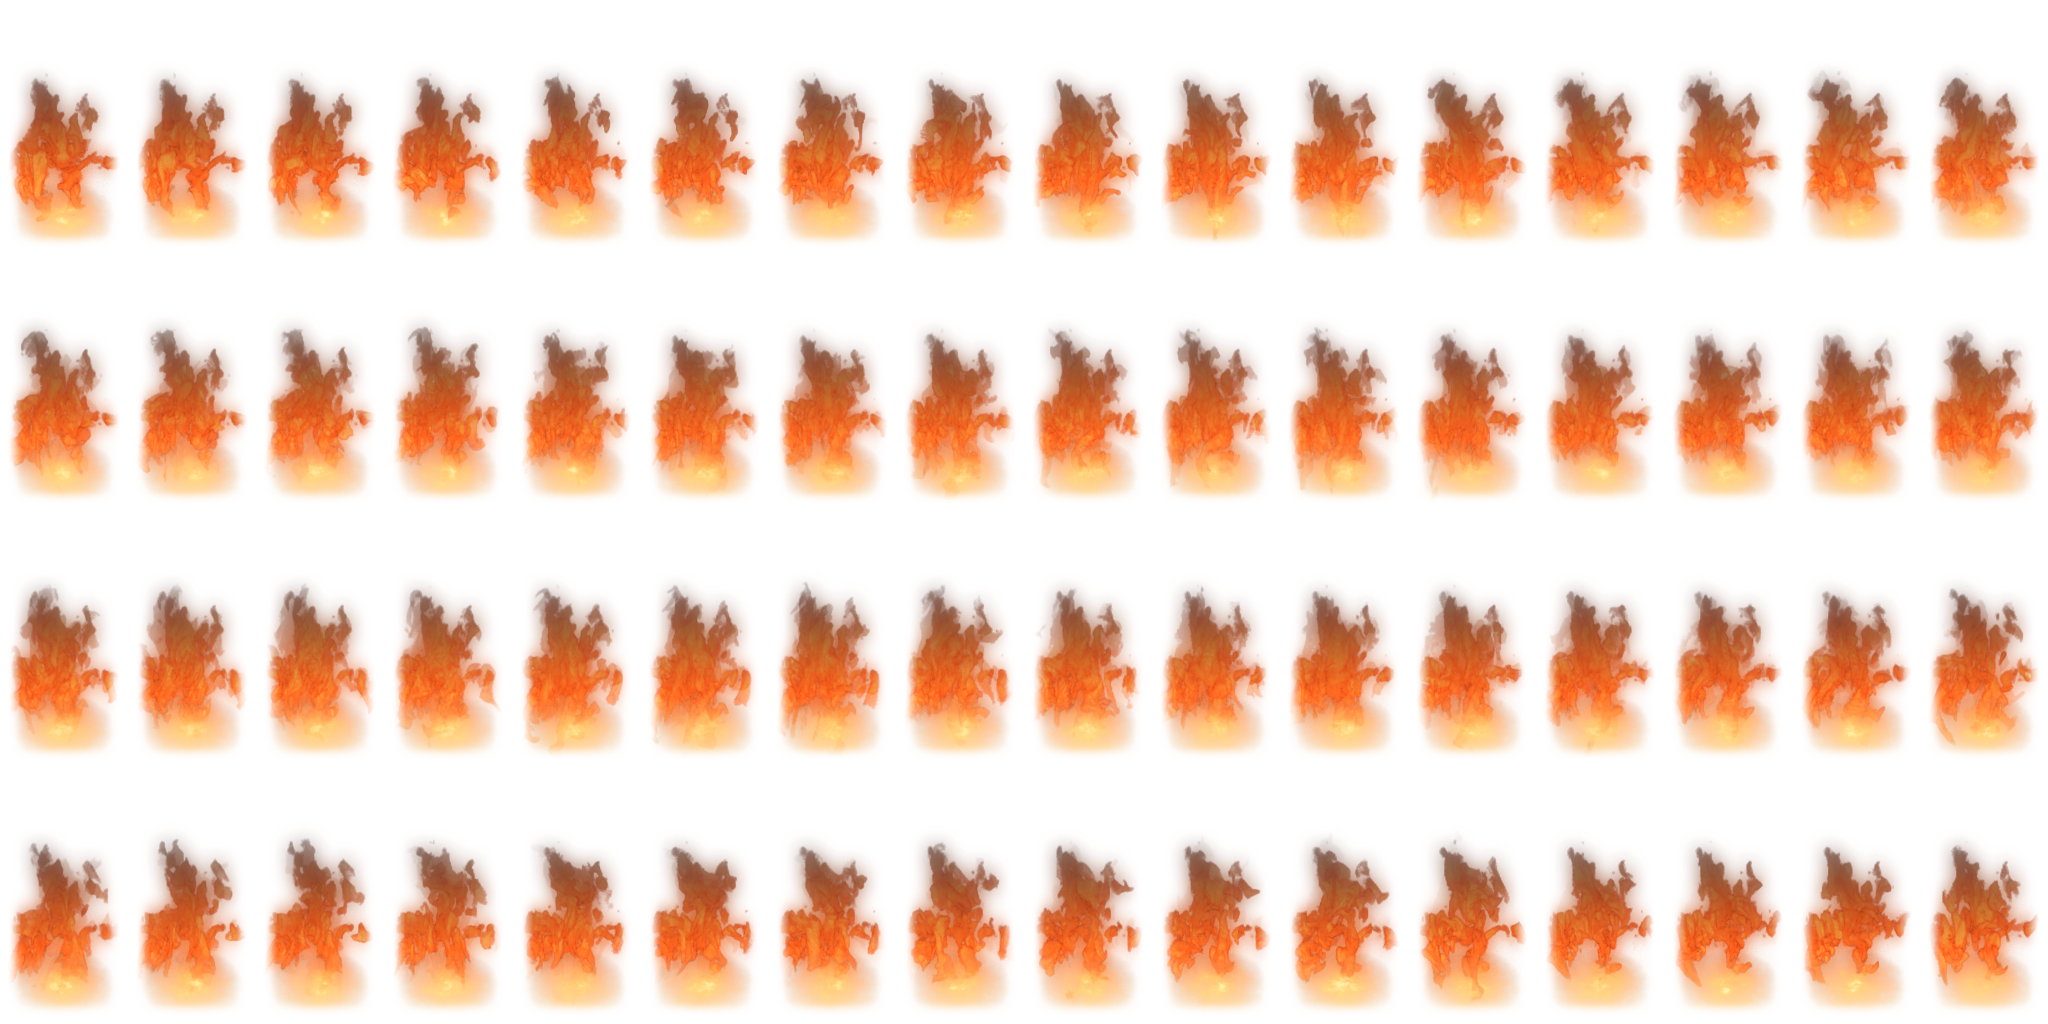
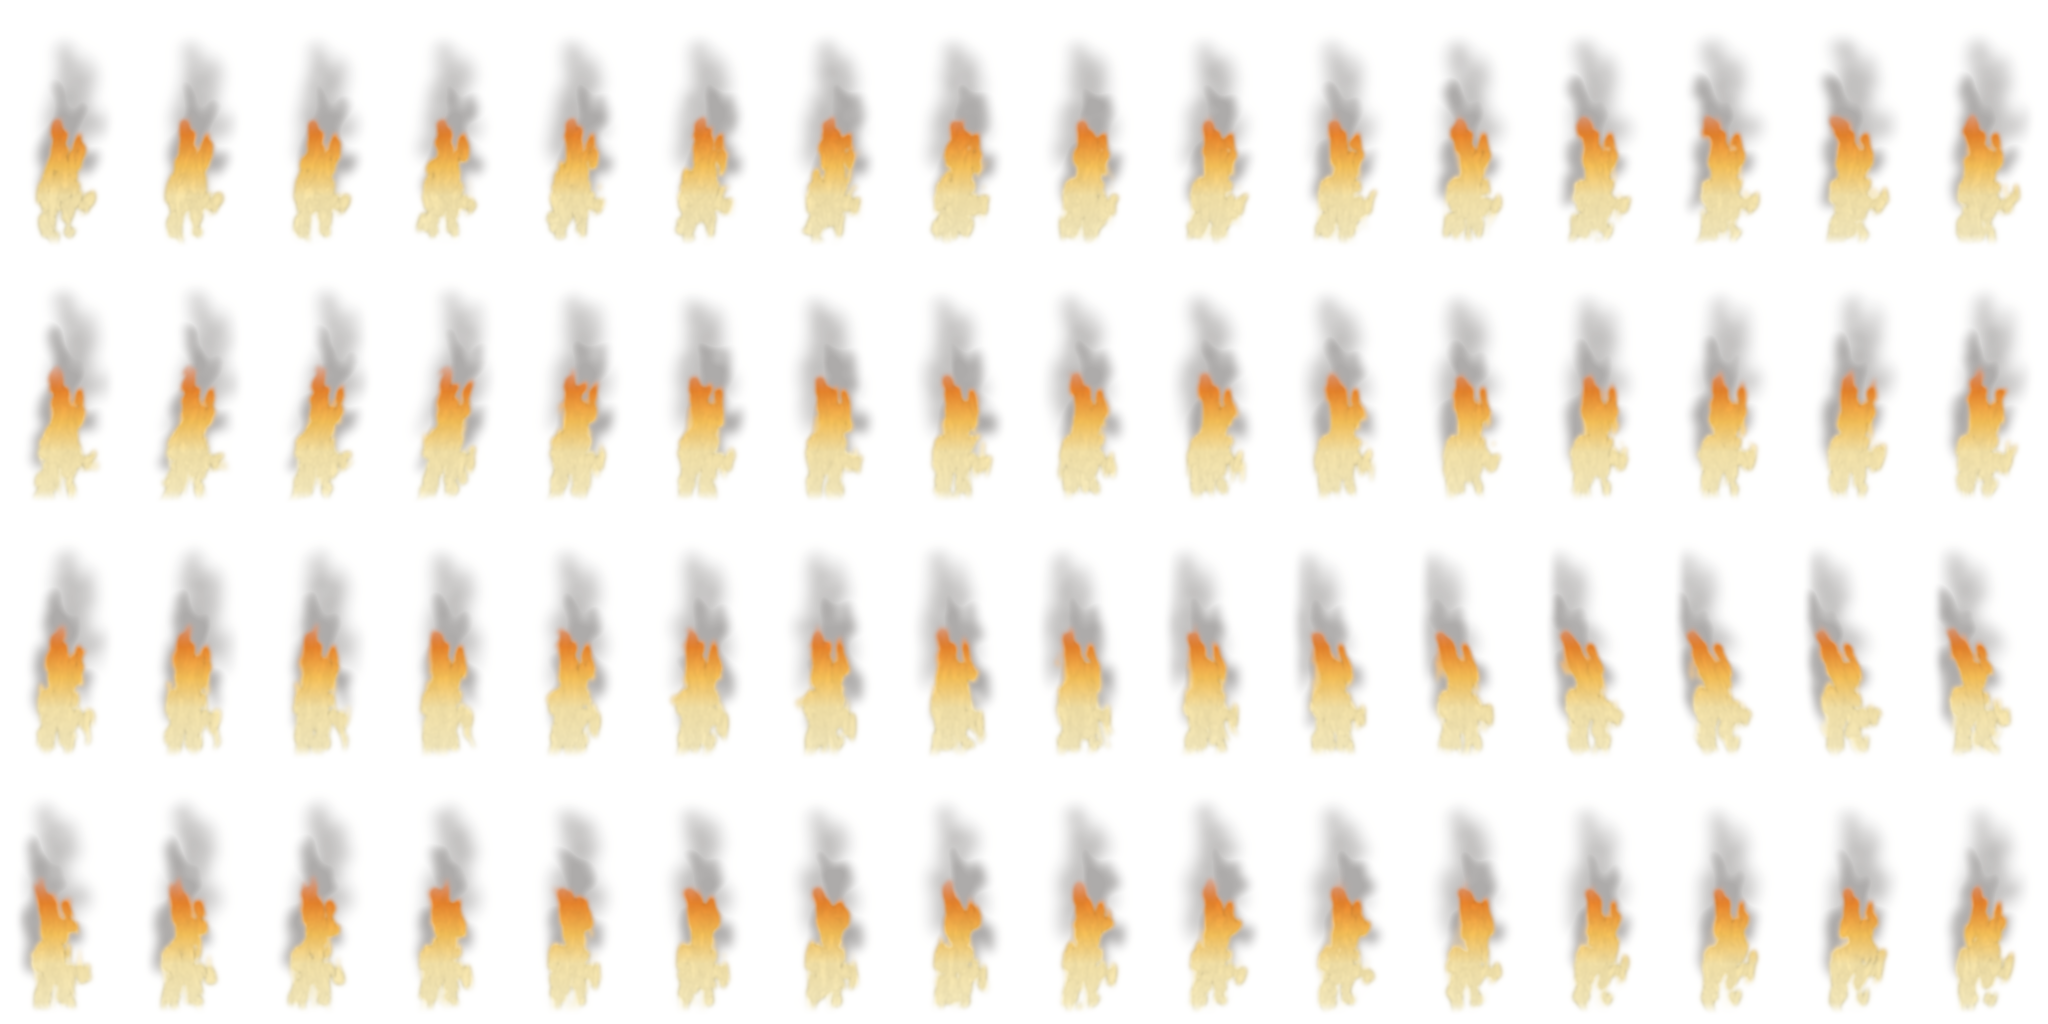
feat(art): вогонь на кузові — суцільне м'яке полум'я з димовими пасмами

diff --git a/tools/blender/vfx/assemble.py b/tools/blender/vfx/assemble.py
@@ -17,7 +17,7 @@ ATLAS = {
                               lab=(12, 27), tgt_L=26, ab=((-1, 2), (-3, 4))),
     "smoke_column_thin": dict(src="smoke_puff", kind="puff", n=64, cols=8, rows=8, fps=4, m=22.1,
                               lab=(35, 45), tgt_L=40, amax=0.35, ab=((-1, 2), (-3, 4))),
-    "wreck_fire": dict(src="wreck_fire", kind="loop", n=64, cols=16, rows=4, fps=8, vgrade=0.5, glow=1.1, glow_r=9, m=1.8,
+    "wreck_fire": dict(src="wreck_fire", kind="loop", n=64, cols=16, rows=4, fps=8, bonfire=1, m=3.38, fill=2.3, soft=1.0,
                             lab=None),
     "explosion": dict(src="explosion", kind="once", n=64, cols=8, rows=8, fps=48, m=22.4, lab=None),
     "dirt_burst": dict(src="dirt_burst", kind="once", n=64, cols=8, rows=8, fps=40, m=13.7, desat=0.65,
@@ -73,6 +73,96 @@ def loopify(fr, n):
     return np.concatenate([pm / np.maximum(al, 1e-6), al], -1)
 
 
+def _blur(a, r):
+    from scipy.ndimage import gaussian_filter
+    return gaussian_filter(a, r, mode="constant")
+
+
+def bonfire(fr, cfg):
+    """Turn the thin, stringy flame sheets of the sim into a full, soft, bright flame body.
+
+    Shape comes from the sim (its alpha, blurred and filled), colour from the height in the flame:
+    near-white to pale yellow in the lower 40%, yellow-orange in the middle, orange-red and fading in the
+    top 20%. Thin dark-grey wisps above the tips hand over to the smoke column (alpha <= 0.4).
+    """
+    n, H, W, _ = fr.shape
+    a0 = fr[..., 3]
+    union = a0.max(0)
+    rows = np.nonzero(_blur(union, 1.5).max(1) > 0.35)[0]
+    top, bot = int(rows.min()), int(rows.max())
+    base_to_tip = ((bot - np.arange(H)) / max(bot - top, 1)).clip(0, 1)[:, None]
+    stops_u = [0.0, 0.40, 0.60, 0.80, 1.0]
+    stops_c = np.array([(255, 246, 205), (255, 236, 175), (255, 200, 92), (244, 140, 46), (210, 74, 24)], np.float32) / 255
+    col = np.stack([np.interp(base_to_tip[:, 0], stops_u, stops_c[:, k]) for k in range(3)], -1)[:, None, :]  # H,1,3
+    rng = np.random.default_rng(5)
+    out = np.zeros_like(fr)
+    for i in range(n):
+        a = a0[i]
+        body = np.clip(_blur(a, 2.2) * float(cfg.get("fill", 2.6)), 0, 1)
+        body = _blur(body, float(cfg.get("soft", 1.3)))
+        # keep a little of the sim's own brightness variation as texture
+        lum = fr[i, ..., :3] @ np.array([0.2126, 0.7152, 0.0722], np.float32)
+        tex = _blur(lum, 1.0)
+        tex = np.clip(tex / max(float(np.percentile(tex[a > 0.3], 90)) if (a > 0.3).any() else 1.0, 1e-3), 0, 1.2)
+        tx = 0.9 + 0.12 * (tex - 0.6)
+        edge = np.clip(1 - body * 1.4, 0, 1)[..., None]  # rim: one step cooler than the core
+        up = np.clip(base_to_tip + 0.18, 0, 1)
+        col2 = np.stack([np.interp(up[:, 0], stops_u, stops_c[:, k]) for k in range(3)], -1)[:, None, :]
+        rgb = (col * (1 - 0.55 * edge) + col2 * 0.55 * edge) * tx[..., None]
+        al = body * (1 - np.clip((base_to_tip - 0.80) / 0.20, 0, 1) ** 1.5 * 0.92)
+        # smoke wisps: the flame silhouette dragged upwards and smeared, dark grey, thin
+        w = np.zeros((H, W), np.float32)
+        for k, (dy, r, g) in enumerate(((int(H * 0.16), 5.0, 0.30), (int(H * 0.30), 8.0, 0.22))):
+            sh = np.roll(body, -dy, 0)
+            sh[H - dy:] = 0
+            sh = np.roll(sh, int(round(6 * np.sin(i * 0.37 + k * 2))), 1)
+            nz = _blur(rng.random((H, W)).astype(np.float32), 5.0)
+            nz = (nz - nz.min()) / max(nz.max() - nz.min(), 1e-6)
+            w = np.maximum(w, _blur(sh, r) * g * (0.5 + nz))
+        w = np.clip(w, 0, 0.4)
+        w = w * (1 - al)
+        soot = np.array([0.20, 0.18, 0.17], np.float32)
+        a_out = al + w * (1 - al)
+        rgb_out = (rgb * al[..., None] + soot * (w * (1 - al))[..., None]) / np.maximum(a_out[..., None], 1e-6)
+        out[i, ..., :3] = np.clip(rgb_out, 0, 1)
+        out[i, ..., 3] = np.clip(a_out, 0, 1)
+    return _sway(out, base_to_tip[:, 0], cfg)
+
+
+def _sway(out, h, cfg):
+    """Licking: the upper flame leans and whips sideways. Sum of harmonics of the loop period, so frame
+    63 -> 0 stays continuous; harmonics 1..4 with fixed phases make it non-rhythmic to the eye."""
+    from scipy.ndimage import shift as ndshift
+    n, H, W, _ = out.shape
+    amp = float(cfg.get("sway", 0.07)) * W
+    ph = (0.4, 2.1, 4.0, 5.3)
+    wt = (1.0, 0.7, 0.45, 0.3)
+    res = np.empty_like(out)
+    for i in range(n):
+        t = 2 * np.pi * i / n
+        lean = sum(w * np.sin((k + 1) * t + p_) for k, (w, p_) in enumerate(zip(wt, ph)))
+        # a second, faster whip that only the tip feels
+        whip = sum(w * np.sin((k + 2) * 2 * t + p_ * 1.7) for k, (w, p_) in enumerate(zip(wt, ph)))
+        for r in range(H):
+            dx = amp * (lean * h[r] ** 1.4 + 0.6 * whip * h[r] ** 3)
+            res[i, r] = ndshift(out[i, r], (dx, 0), order=1, mode="constant")
+    return res
+
+
+def luma_report(fr):
+    """Alpha-weighted mean luma (0..255) of the flame body: lower half and upper half of its rows."""
+    a = fr[..., 3]
+    body = a > 0.6
+    rows = np.nonzero(body.any((0, 2)))[0]
+    mid = (rows.min() + rows.max()) // 2
+    L = (fr[..., :3] @ np.array([0.2126, 0.7152, 0.0722], np.float32)) * 255
+    low = body.copy()
+    low[:, :mid + 1] = False
+    up = body.copy()
+    up[:, mid:] = False
+    return float(L[low].mean()), float(L[up].mean())
+
+
 def process(cfg, frames):
     n = cfg["n"]
     fr = frames
@@ -80,6 +170,9 @@ def process(cfg, frames):
         fr = loopify(fr[-2 * n:], n)
     else:
         fr = fr[:n].copy()
+    if cfg.get("bonfire"):
+        fr = bonfire(fr, cfg)
+        print("flame luma lower half %.0f, upper half %.0f (alpha > 0.6)" % luma_report(fr))
     if cfg.get("tail"):  # a flash must end empty, the sim stops while it is still bright
         k = cfg["tail"]
         fr[-k:, ..., 3] *= np.linspace(1, 0, k + 1)[1:].reshape(-1, 1, 1).astype(np.float32)

diff --git a/assets/vfx/SOURCES.md b/assets/vfx/SOURCES.md
@@ -33,7 +33,7 @@ pitch). The VDB files themselves are not in the repository.
 | --- | --- | --- | --- |
 | `smoke_column.png` | rolling dark smoke, plays once and ends empty (loops without a seam) | 64, 8×8 × 192 px, 4 fps, cell ≈ 22 m (the cloud fills ≈ 19 m, scale the quad) | Ground Explosion VDB |
 | `smoke_column_thin.png` | the same, lighter and thinner (peak alpha 0.35) for the thinning stages | 64, 8×8 × 192 px, 4 fps | Ground Explosion VDB |
-| `wreck_fire.png` | tall licking flames rising from a glowing burning bed (the bed is a flat emissive disc added in Blender, noise-animated), yellow-white root, orange body, dark smoky tips, seamless loop | 64, 16×4 × 128×256 px (2048×1024), 8 fps, cell width ≈ 1.7 m, base at the bottom centre, 6% above the cell bottom | Small Camp Fire VDB (vertical stretch 1.7) |
+| `wreck_fire.png` | tall soft flame body rising from the cell bottom: near-white base, yellow-orange middle, orange-red fading tips, thin dark-grey smoke wisps above; shape from the sim, colour graded by height, sideways licking added as loop-period harmonics; seamless loop | 64, 16×4 × 128×256 px (2048×1024), 8 fps, cell width ≈ 3.4 m (flame ≈ 1.5 m wide, 3 m tall), base at the bottom centre, 6% above the cell bottom | Small Camp Fire VDB (vertical stretch 3.6) |
 | `explosion.png` | fireball then dark smoke, one-shot | 64, 8×8 × 192 px, 48 fps, cell ≈ 22 m | Ground Explosion VDB |
 | `dirt_burst.png` | brown earth and dust cloud, no fire, one-shot | 64, 8×8 × 192 px, 40 fps, cell ≈ 13.7 m | Ground Explosion VDB (density only, brown albedo) |
 | `impact_flash.png` | muzzle / impact flash into a small fireball, ends empty | 16, 4×4 × 192 px, 60 fps, cell ≈ 6.7 m | Ground Explosion VDB (early frames) |
